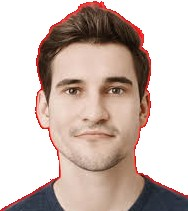
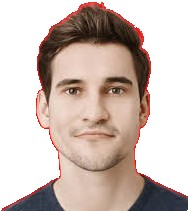
feat: implement center guard to fix color bleed on white clothing
- Added "Safe Zone" logic to `flood_fill_background` to protect the subject in the center/bottom of the frame.
- Applied a stricter color threshold (0.3x) within the Safe Zone to prevent the white background from bleeding into white shirts.
- Retained aggressive thresholding on image edges to ensure clean background removal.

diff --git a/src/process.c b/src/process.c
@@ -11,10 +11,10 @@
 
 double color_distance(unsigned char r1, unsigned char g1, unsigned char b1,
                       unsigned char r2, unsigned char g2, unsigned char b2) {
+    // Standard Euclidean Distance
     return sqrt(pow(r1 - r2, 2) + pow(g1 - g2, 2) + pow(b1 - b2, 2));
 }
 
-// Checks if a pixel has a neighbor that has already been removed (visited)
 int has_visited_neighbor(int x, int y, int width, int height, unsigned char *visited) {
     int dx[] = {0, 0, -1, 1};
     int dy[] = {-1, 1, 0, 0};
@@ -28,7 +28,6 @@ int has_visited_neighbor(int x, int y, int width, int height, unsigned char *vis
     return 0;
 }
 
-// Helper to paint a pixel white
 void set_pixel_white(unsigned char *img, int index, int channels) {
     img[index]     = TARGET_R; 
     img[index + 1] = TARGET_G;
@@ -36,22 +35,26 @@ void set_pixel_white(unsigned char *img, int index, int channels) {
     if (channels == 4) img[index + 3] = 255;
 }
 
-// --- CORE FUNCTIONS ---
+// --- CORE ALGORITHMS ---
 
-// 1. Main Flood Fill (Starts from all 4 corners to catch more background)
+// 1. Flood Fill with "Center Guard" (Lightweight Body Detection)
 void flood_fill_background(unsigned char *img, unsigned char *visited, int width, int height, int channels, 
                            unsigned char bg_r, unsigned char bg_g, unsigned char bg_b, double threshold) {
     Queue* q = createQueue();
     
-    // Start from all 4 corners (Top-Left, Top-Right, Bot-Left, Bot-Right)
+    // Start from 4 corners
     int start_points[4][2] = {{0,0}, {width-1, 0}, {0, height-1}, {width-1, height-1}};
-    
     for(int i=0; i<4; i++) {
-        int x = start_points[i][0];
-        int y = start_points[i][1];
-        enqueue(q, x, y);
-        visited[y * width + x] = 1;
+        enqueue(q, start_points[i][0], start_points[i][1]);
+        visited[start_points[i][1] * width + start_points[i][0]] = 1;
     }
+
+    // DEFINE SAFE ZONE (Passport Standard)
+    // The "Body" is typically in the middle horizontal 50% and lower vertical 70%
+    int safe_x_min = width * 0.25; 
+    int safe_x_max = width * 0.75;
+    int safe_y_min = height * 0.20; // Start protecting from the neck down (approx)
+    int safe_y_max = height;
 
     int dx[] = {0, 0, -1, 1};
     int dy[] = {-1, 1, 0, 0};
@@ -74,7 +77,16 @@ void flood_fill_background(unsigned char *img, unsigned char *visited, int width
                     int idx = IDX(nx, ny, width, channels);
                     double dist = color_distance(img[idx], img[idx+1], img[idx+2], bg_r, bg_g, bg_b);
 
-                    if (dist < threshold) {
+                    // --- DYNAMIC THRESHOLD LOGIC ---
+                    double effective_threshold = threshold;
+
+                    // If we are in the "Body Zone", be SUPER strict.
+                    // This prevents bleeding into a white shirt.
+                    if (nx > safe_x_min && nx < safe_x_max && ny > safe_y_min) {
+                        effective_threshold = threshold * 0.3; // 70% Stricter
+                    }
+
+                    if (dist < effective_threshold) {
                         enqueue(q, nx, ny);
                         visited[v_index] = 1;
                     }
@@ -85,22 +97,19 @@ void flood_fill_background(unsigned char *img, unsigned char *visited, int width
     freeQueue(q);
 }
 
-// 2. Island Removal (Fixes the gaps inside arms/hair loops)
+// 2. Island Removal
 void remove_isolated_islands(unsigned char *img, unsigned char *visited, int width, int height, int channels, 
                              unsigned char bg_r, unsigned char bg_g, unsigned char bg_b, double threshold) {
-    // We use a stricter threshold (0.9x) to avoid deleting parts of the shirt that look like the wall
     double strict_threshold = threshold * 0.9; 
-
     for (int y = 0; y < height; y++) {
         for (int x = 0; x < width; x++) {
             int v_index = y * width + x;
-            
-            // If the pixel was NOT reached by the flood fill...
             if (visited[v_index] == 0) { 
                 int idx = IDX(x, y, width, channels);
                 double dist = color_distance(img[idx], img[idx+1], img[idx+2], bg_r, bg_g, bg_b);
-
-                // ...but it looks exactly like the background? It's an island!
+                
+                // Note: We don't use Safe Zone here because Islands are usually 
+                // "Trapped background" (like between arm and body), which we WANT to remove.
                 if (dist < strict_threshold) {
                     set_pixel_white(img, idx, channels);
                     visited[v_index] = 1; 
@@ -110,31 +119,24 @@ void remove_isolated_islands(unsigned char *img, unsigned char *visited, int wid
     }
 }
 
-// 3. Edge Erosion (Fixes the colored halo/outline around hair)
+// 3. Edge Erosion
 void erode_hair_edges(unsigned char *img, unsigned char *visited, int width, int height, int channels, 
                       unsigned char bg_r, unsigned char bg_g, unsigned char bg_b, double threshold) {
-    int passes = 2; // How many pixels deep to eat
-    
+    int passes = 2; 
     int *to_remove_x = malloc(width * height * sizeof(int));
     int *to_remove_y = malloc(width * height * sizeof(int));
-
-    if (!to_remove_x || !to_remove_y) return; 
+    if (!to_remove_x || !to_remove_y) return;
 
     for (int pass = 0; pass < passes; pass++) {
         int remove_count = 0;
-
         for (int y = 0; y < height; y++) {
             for (int x = 0; x < width; x++) {
                 int v_index = y * width + x;
-                
-                // If it is part of the SUBJECT (not visited)...
                 if (visited[v_index] == 0) {
-                    // ...but it touches the WHITE background...
                     if (has_visited_neighbor(x, y, width, height, visited)) {
                         int idx = IDX(x, y, width, channels);
                         double dist = color_distance(img[idx], img[idx+1], img[idx+2], bg_r, bg_g, bg_b);
-                        
-                        // ...and is somewhat similar to the background (Loose threshold 1.4x)
+                        // Relaxed threshold for edges to eat halos
                         if (dist < (threshold * 1.4)) {
                             to_remove_x[remove_count] = x;
                             to_remove_y[remove_count] = y;
@@ -144,8 +146,6 @@ void erode_hair_edges(unsigned char *img, unsigned char *visited, int width, int
                 }
             }
         }
-
-        // Apply removals for this pass
         for (int k = 0; k < remove_count; k++) {
             int rx = to_remove_x[k];
             int ry = to_remove_y[k];
@@ -153,7 +153,6 @@ void erode_hair_edges(unsigned char *img, unsigned char *visited, int width, int
             visited[ry * width + rx] = 1;
         }
     }
-
     free(to_remove_x);
     free(to_remove_y);
 }
@@ -167,13 +166,8 @@ void remove_background(unsigned char *img, int width, int height, int channels, 
     unsigned char *visited = (unsigned char *)calloc(width * height, sizeof(unsigned char));
     if (!visited) return;
 
-    // Phase 1: Main Flood Fill
     flood_fill_background(img, visited, width, height, channels, bg_r, bg_g, bg_b, threshold);
-
-    // Phase 2: Clean up isolated gaps
     remove_isolated_islands(img, visited, width, height, channels, bg_r, bg_g, bg_b, threshold);
-
-    // Phase 3: Smooth the edges
     erode_hair_edges(img, visited, width, height, channels, bg_r, bg_g, bg_b, threshold);
 
     free(visited);
